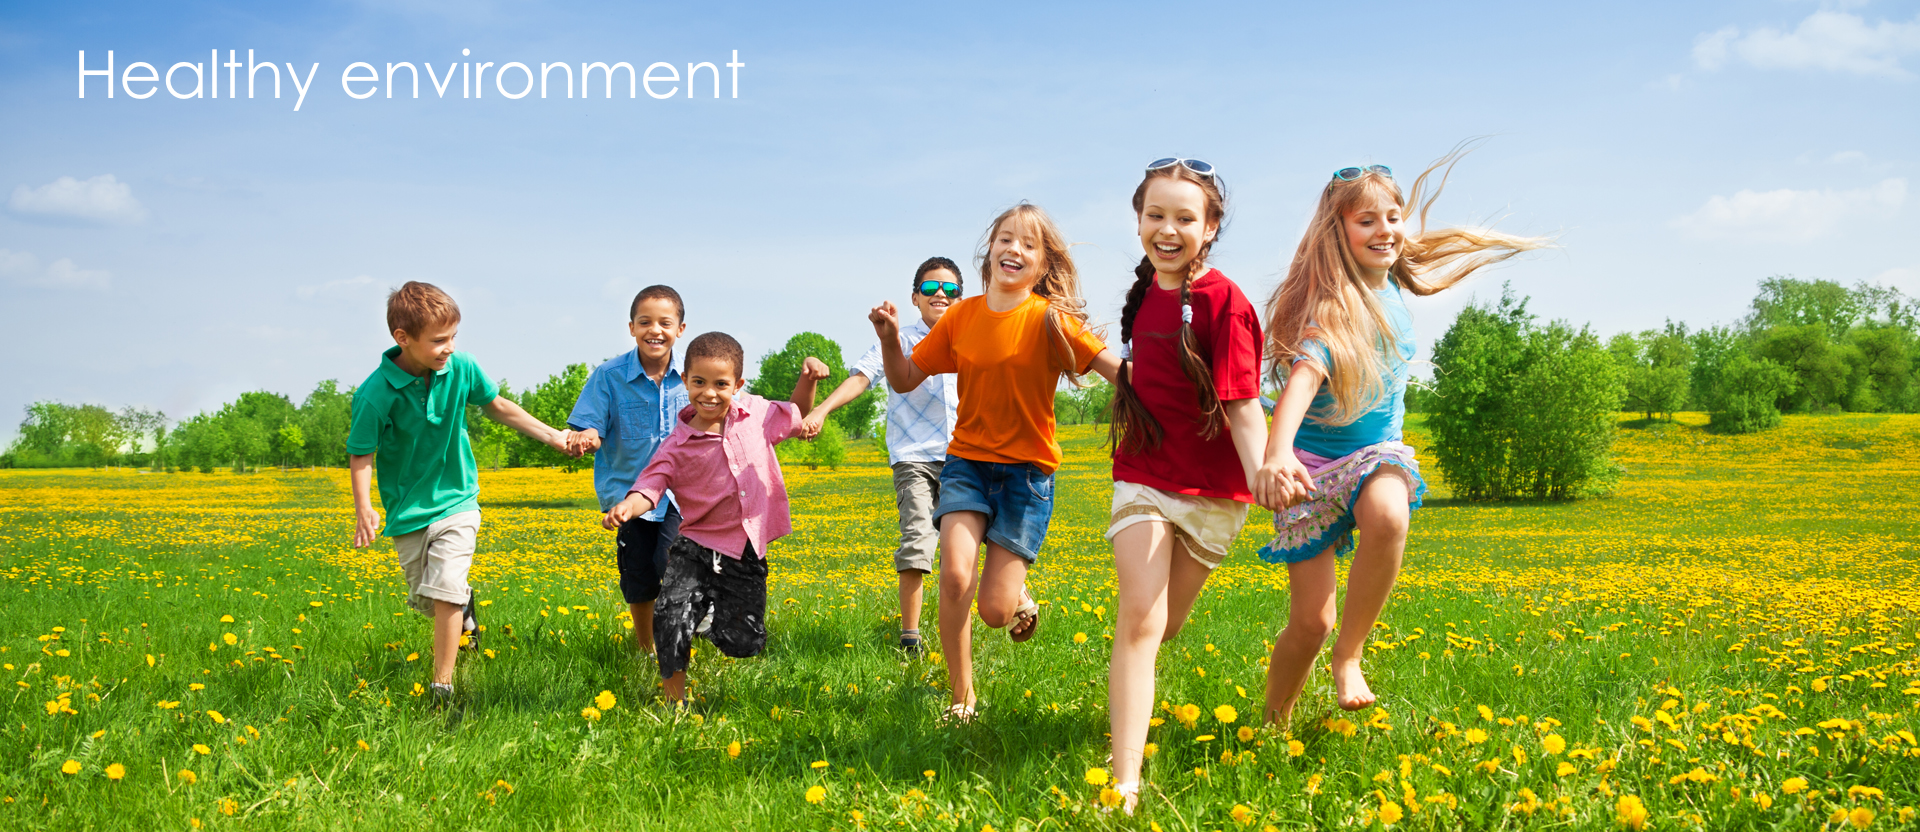
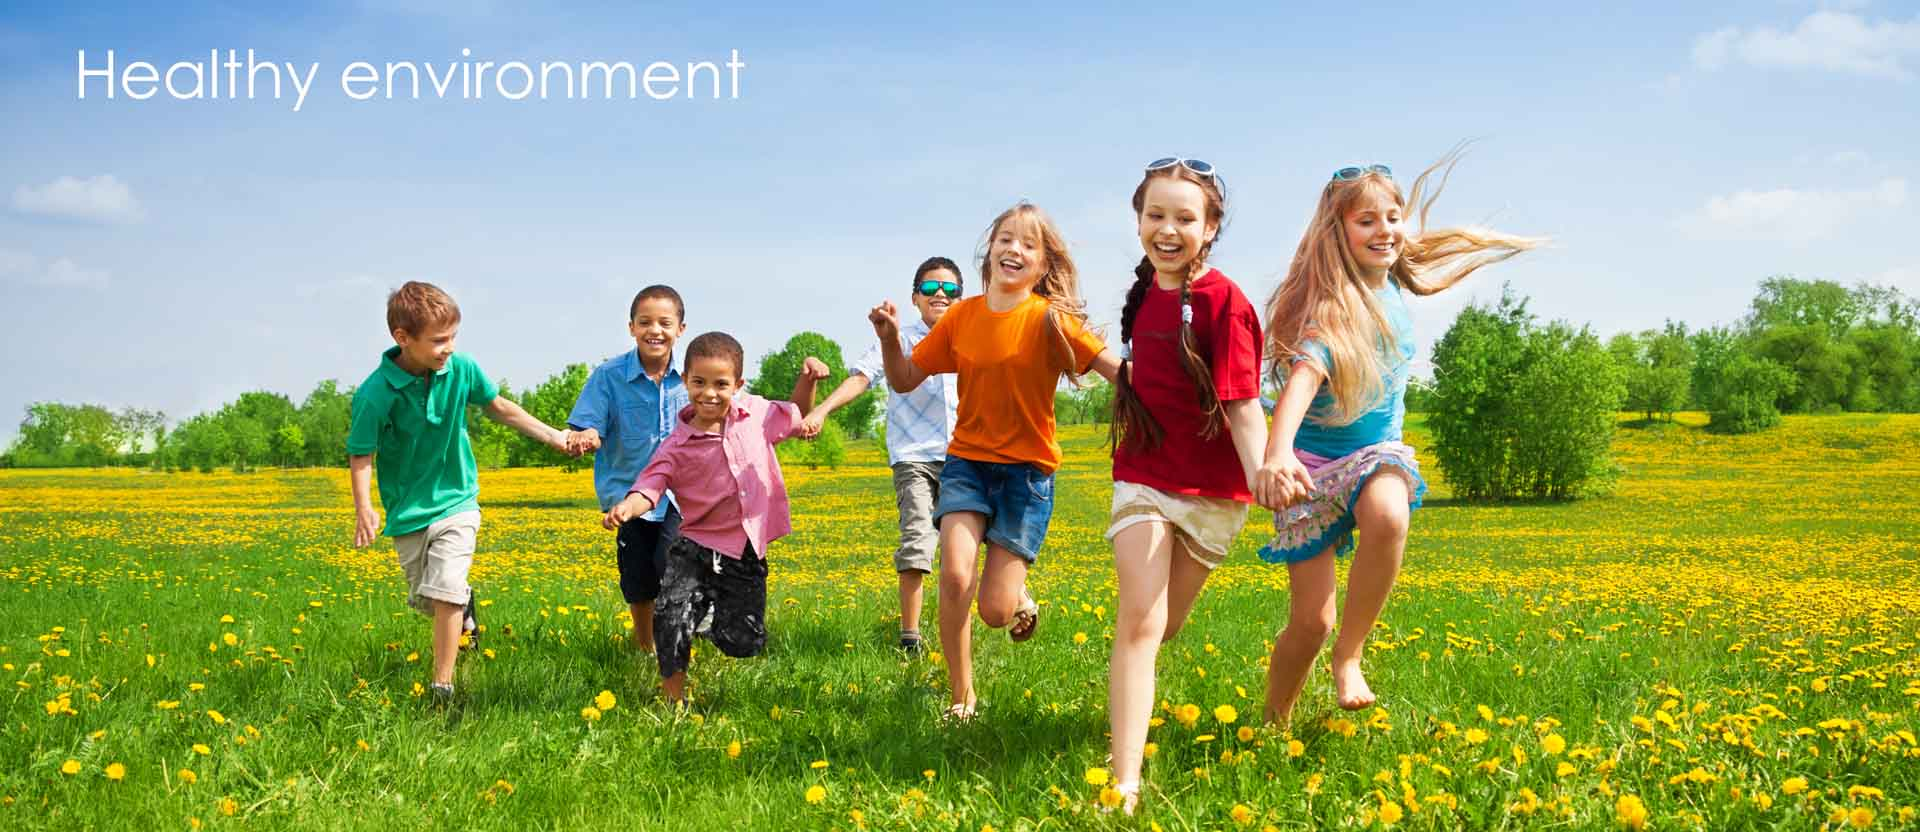
adding uncompressed images

diff --git a/index.html b/index.html
@@ -56,6 +56,8 @@
         <a href="#"><img src="images/slider/Img2.jpg" alt="slide 3"/></a>
         <a href="#"><img src="images/slider/Img4.jpg" alt="slide 4"/></a>
         <a href="#"><img src="images/slider/Img5.jpg" alt="slide 5"/></a>
+        <a href="#"><img src="images/slider/Img6.jpg" alt="slide 6"/></a>
+        <a href="#"><img src="images/slider/Img7.jpg" alt="slide 7"/></a>
     </div>
 </header>
 
